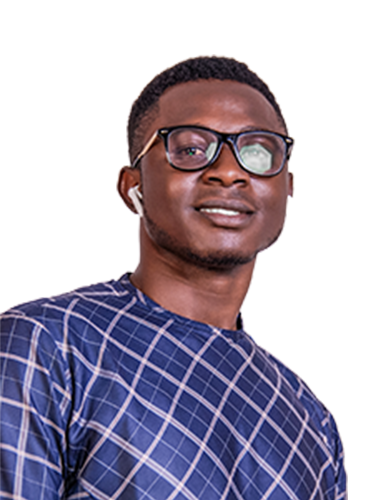
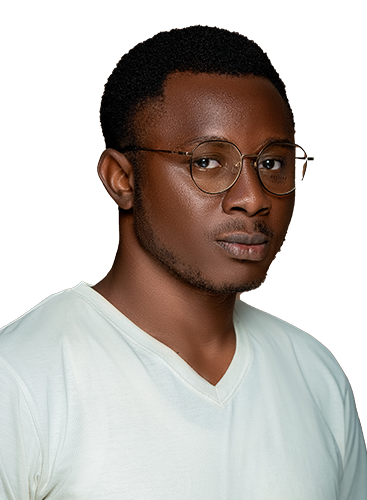
Change header image and fixed mobile view

diff --git a/src/components/header/header.css b/src/components/header/header.css
@@ -123,7 +123,6 @@ padding: 0.5rem;
 @media screen and (max-width: 1024px){
   
   .header__container{
-    
     margin-top: 1rem;
 }
     header{
@@ -141,10 +140,7 @@ padding: 0.5rem;
       overflow:visible;
       padding: 0.5rem 1rem 1rem 1rem; 
   }
-  .me>img{
-    /* width: 100%;
-    height: 100%; */
-  }   
+    
 }
 
 
@@ -152,7 +148,7 @@ padding: 0.5rem;
 @media only screen and (max-width: 600px){
 
   .header__container{
-    margin-top: 2rem;
+    margin-top: 1.5rem;
 }
     header{
         height: 100vh;
@@ -161,11 +157,22 @@ padding: 0.5rem;
     .container header__container{
 
     }
-    .header__socials,
-    .scroll__down{
-        display: none;
-    }   
+    .header__socials{
+        /* display: none; */
+        display: flex;
+        flex-direction: row;
+        align-items: center;
+        justify-content: center;
+        top:-870px;
+        right: 10%;
 
+    }   
+    .header__socials::after{
+      display: none;
+  }
+.scroll__down{
+  display: none;
+}
 
     .header__container{
       text-align: center;
@@ -174,7 +181,7 @@ padding: 0.5rem;
     }
     
     .cta{
-      margin-top: 2.5rem;
+      margin-top: 1.5rem;
       display: flex;
       gap: 1.2rem;
       justify-content: center;
@@ -187,7 +194,6 @@ padding: 0.5rem;
       position: relative;
       left: calc(50% - 11rem);
       margin-bottom:0rem;
-      /* border-radius: 12rem 12rem 0 0; */
          
   }
   .img{
@@ -198,7 +204,5 @@ padding: 0.5rem;
 
   }
 
-  
-/*  new style */
 
  
